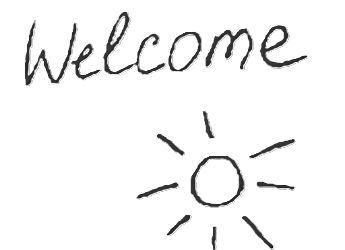
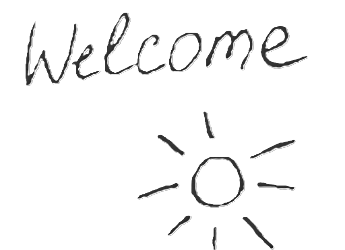
feat: update welcome image based on theme selection and enhance background image styles

diff --git a/public/index-intro.html b/public/index-intro.html
@@ -54,7 +54,6 @@
               <path fill="currentColor"
                 d="M11.167 21q-.815 0-1.552-.338t-1.22-.985l-4.74-6.271l.264-.289q.25-.275.594-.336t.656.121l3.023 1.49V6.77q0-.212.144-.356t.357-.144t.359.144t.146.356v9.32l-3.579-1.77l3.639 4.806q.342.444.85.66q.507.215 1.06.215h4.313q1.056 0 1.787-.722Q18 18.556 18 17.5v-3.538q0-.605-.41-1.014q-.408-.41-1.013-.41h-4.61v-1h4.61q1.01 0 1.716.707T19 13.962v3.537q0 1.459-1.034 2.48Q16.933 21 15.481 21zM5.233 8.77q-.267-.454-.404-.96q-.137-.505-.137-1.04q0-1.672 1.165-2.836Q7.02 2.769 8.692 2.769t2.836 1.165t1.164 2.833q0 .542-.136 1.045t-.404.957l-.86-.5q.2-.35.3-.712t.1-.788q0-1.25-.875-2.125T8.692 3.77t-2.125.875t-.875 2.125q0 .425.1.788t.3.712zm6.586 7" />
             </svg>
-            <p class="viewer">.. come in ..</p>
           </div>
           <div class="back">
             <p class="game-stat">ENJOY</p>
@@ -63,7 +62,7 @@
           </div>
         </div>
         <div class="background">
-          <img id="welcome-image" src="images/welcome.png" alt="raffaele" width="345" height="250" />
+          <img id="welcome-image" src="images/welcome-high res.png" alt="raffaele" width="414" height="300" />
         </div>
       </a>
     </main>
@@ -138,18 +137,5 @@
     </footer>
   </div> <!-- Closing the wrapper container div -->
 </body>
-<script>
-  function updateWelcomeImage() {
-    const image = document.getElementById("welcome-image");
-    const isLight = document.documentElement.dataset.theme === "light";
-
-    image.src = isLight
-      ? "images/welcome-light.png"
-      : "images/welcome.png";
-  }
-
-  updateWelcomeImage();
-  document.addEventListener("theme:transitioned", updateWelcomeImage);
-</script>
 
 </html>

diff --git a/public/js/intro-theme-selector.js b/public/js/intro-theme-selector.js
@@ -175,10 +175,21 @@ function updateIntroThemeFavicon(resolvedTheme) {
   }
 }
 
+function updateIntroWelcomeImage(resolvedTheme) {
+  const image = document.getElementById("welcome-image");
+  if (image) {
+    image.src =
+      resolvedTheme === "light"
+        ? "images/welcome-light.png"
+        : "images/welcome-high res.png";
+  }
+}
+
 function applyIntroThemeState(resolvedTheme, theme, announce) {
   document.documentElement.setAttribute("data-theme", resolvedTheme);
   saveIntroTheme(theme);
   updateIntroThemeFavicon(resolvedTheme);
+  updateIntroWelcomeImage(resolvedTheme);
   updateIntroThemeControls(theme);
 
   if (announce) {
@@ -197,6 +208,7 @@ function setIntroTheme(theme, options = {}) {
     document.documentElement.getAttribute("data-theme") === resolvedTheme &&
     getIntroStoredTheme() === theme
   ) {
+    updateIntroWelcomeImage(resolvedTheme);
     updateIntroThemeControls(theme);
     return;
   }

diff --git a/public/css/index-intro.css b/public/css/index-intro.css
@@ -152,9 +152,24 @@ main.content {
    transition: opacity 180ms ease, visibility 0s linear 180ms, transform var(--card-transition);
 }
 
+
+
+.background>img {
+   position: absolute;
+   inset-block-end: var(--space-l-xl);
+   inset-inline-start: 50%;
+   z-index: 1;
+   display: block;
+   width: var(--space-12xl-13xl);
+   height: auto;
+   object-fit: cover;
+   translate: -50% 0;
+   transform-origin: bottom center;
+}
+
 .background img {
    position: absolute;
-   inset-block-end: var(--space-2xl-3xl);
+   inset-block-end: var(--space-l-xl);
    inset-inline-start: 50%;
    z-index: 1;
    display: block;
